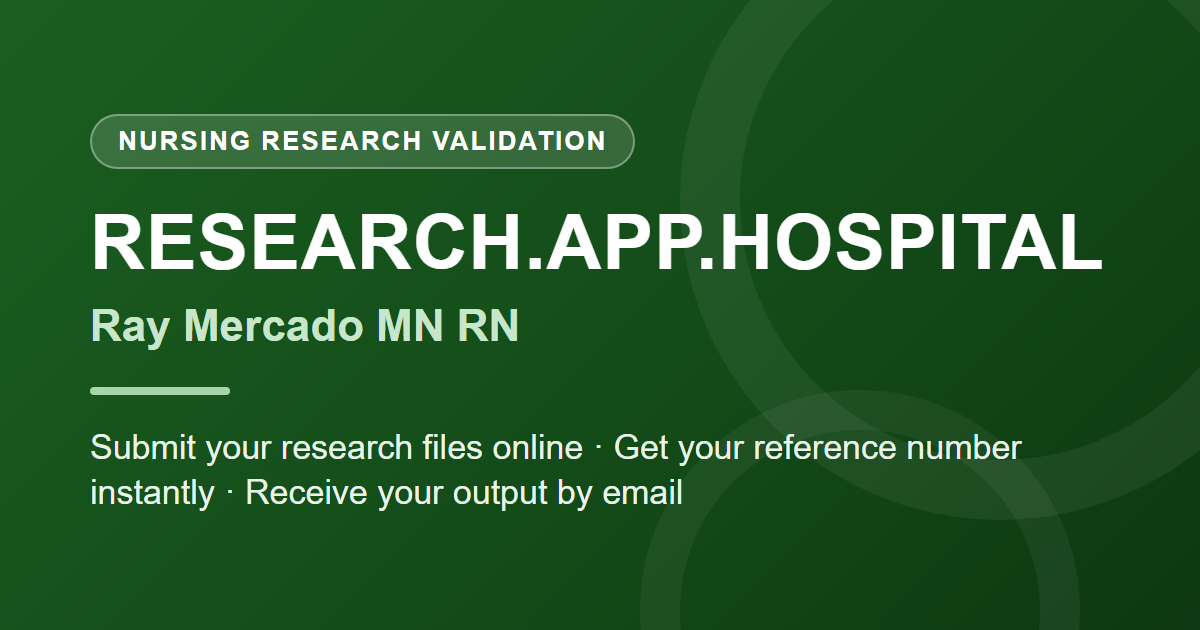
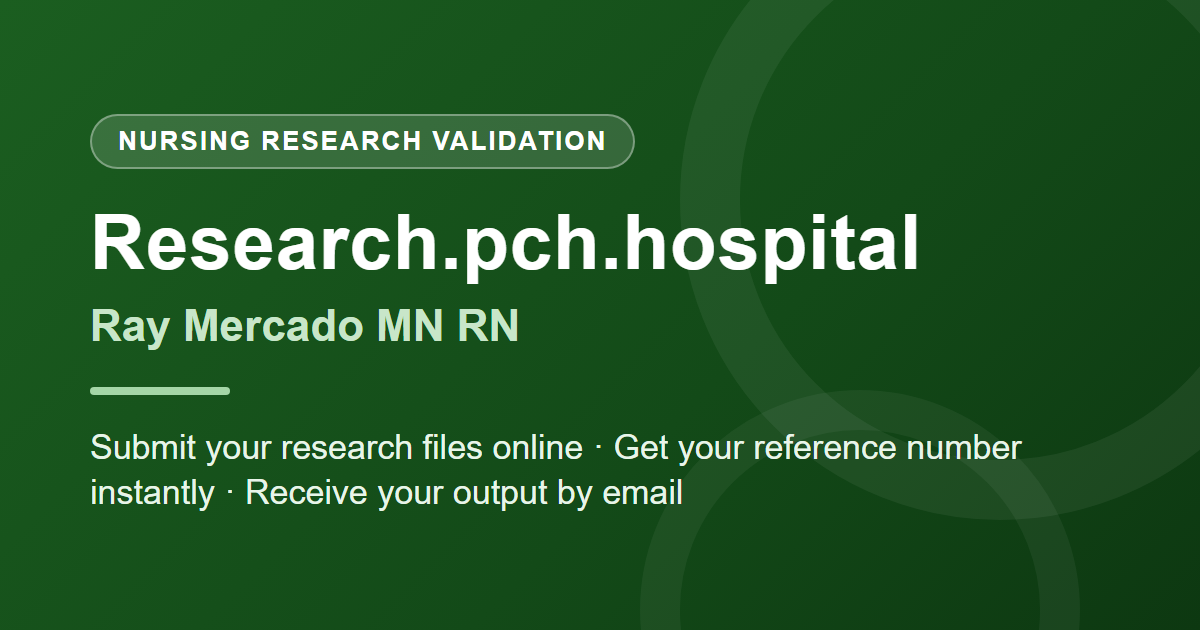
Rename to Research.pch.hospital (title, preview image)

Changed region(s): [[0.1233, 0.3317, 0.925, 0.4524]]

diff --git a/index.html b/index.html
@@ -3,21 +3,21 @@
 <head>
   <meta charset="utf-8">
   <meta name="viewport" content="width=device-width, initial-scale=1">
-  <title>RESEARCH.APP.HOSPITAL - Ray Mercado MN RN</title>
+  <title>Research.pch.hospital - Ray Mercado MN RN</title>
   <meta name="description" content="Nursing research validation by Ray Mercado MN RN. Submit your research files online, get your reference number instantly, and receive your output by email.">
   <meta name="theme-color" content="#1b5e20">
 
   <!-- Link preview (Facebook, Messenger, etc.) -->
   <meta property="og:type" content="website">
-  <meta property="og:site_name" content="RESEARCH.APP.HOSPITAL">
-  <meta property="og:title" content="RESEARCH.APP.HOSPITAL - Nursing Research Validation">
+  <meta property="og:site_name" content="Research.pch.hospital">
+  <meta property="og:title" content="Research.pch.hospital - Nursing Research Validation">
   <meta property="og:description" content="By Ray Mercado MN RN. Submit your research files online, get your reference number instantly, and receive your output by email.">
   <meta property="og:url" content="https://passyoulike.github.io/research-validation/">
   <meta property="og:image" content="https://passyoulike.github.io/research-validation/preview.png">
   <meta property="og:image:type" content="image/png">
   <meta property="og:image:width" content="1200">
   <meta property="og:image:height" content="630">
-  <meta property="og:image:alt" content="RESEARCH.APP.HOSPITAL - Nursing Research Validation - Ray Mercado MN RN">
+  <meta property="og:image:alt" content="Research.pch.hospital - Nursing Research Validation - Ray Mercado MN RN">
   <meta name="twitter:card" content="summary_large_image">
   <style>
     html, body { margin: 0; height: 100%; background: #f1f3f4; }
@@ -29,7 +29,7 @@
 <body>
   <!-- The form itself runs on Google Apps Script (see /apps-script). This page just shows it. -->
   <iframe src="https://script.google.com/macros/s/AKfycbysb9XG5DD-LFdIKjEfuBAYq_Rut1V5xuSPK64FA1X_kGJrJf3Er2CEkIRe74yXU4TO/exec"
-          title="RESEARCH.APP.HOSPITAL form" allow="clipboard-write"></iframe>
+          title="Research.pch.hospital form" allow="clipboard-write"></iframe>
   <p class="fallback">Form not loading? <a href="https://script.google.com/macros/s/AKfycbysb9XG5DD-LFdIKjEfuBAYq_Rut1V5xuSPK64FA1X_kGJrJf3Er2CEkIRe74yXU4TO/exec" target="_blank" rel="noopener">Open it directly</a></p>
 </body>
 </html>

diff --git a/README.md b/README.md
@@ -1,4 +1,4 @@
-# RESEARCH.APP.HOSPITAL - Ray Mercado MN RN
+# Research.pch.hospital - Ray Mercado MN RN
 
 Submit your research files for validation:
 
